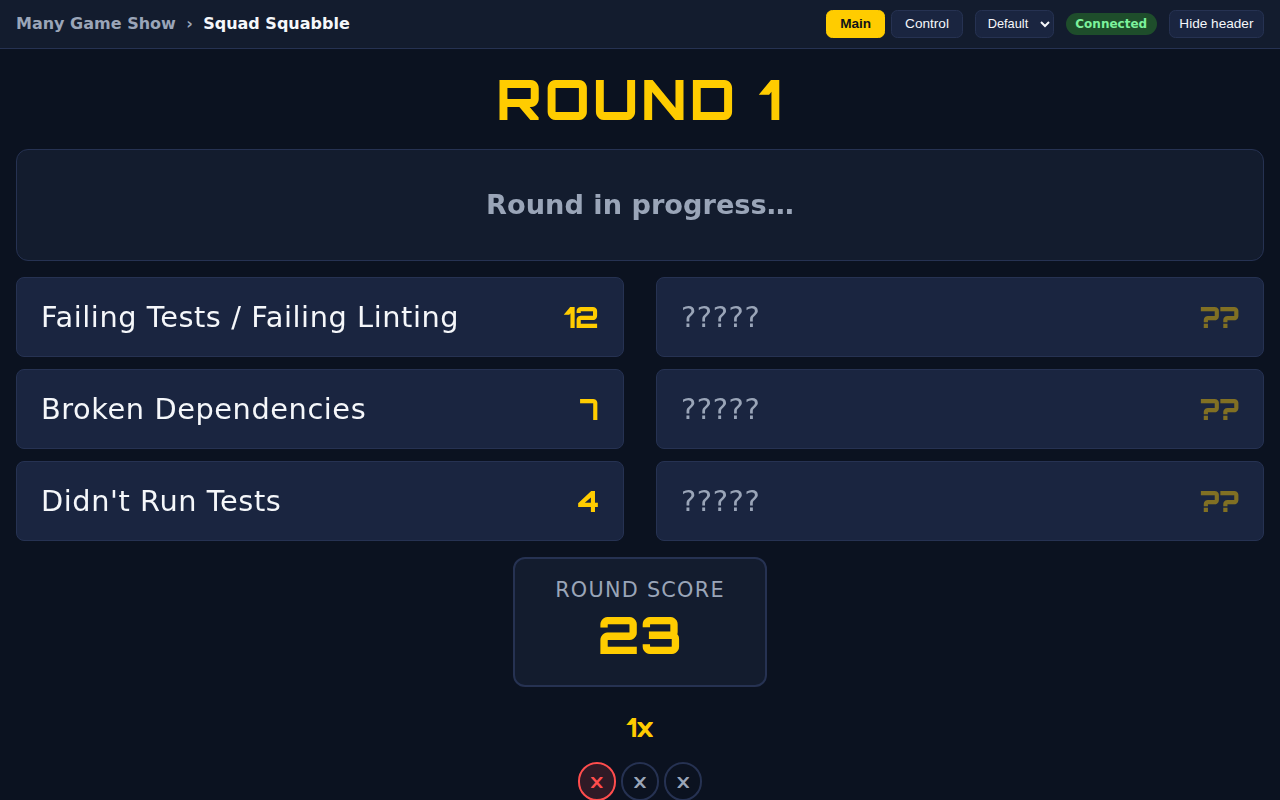
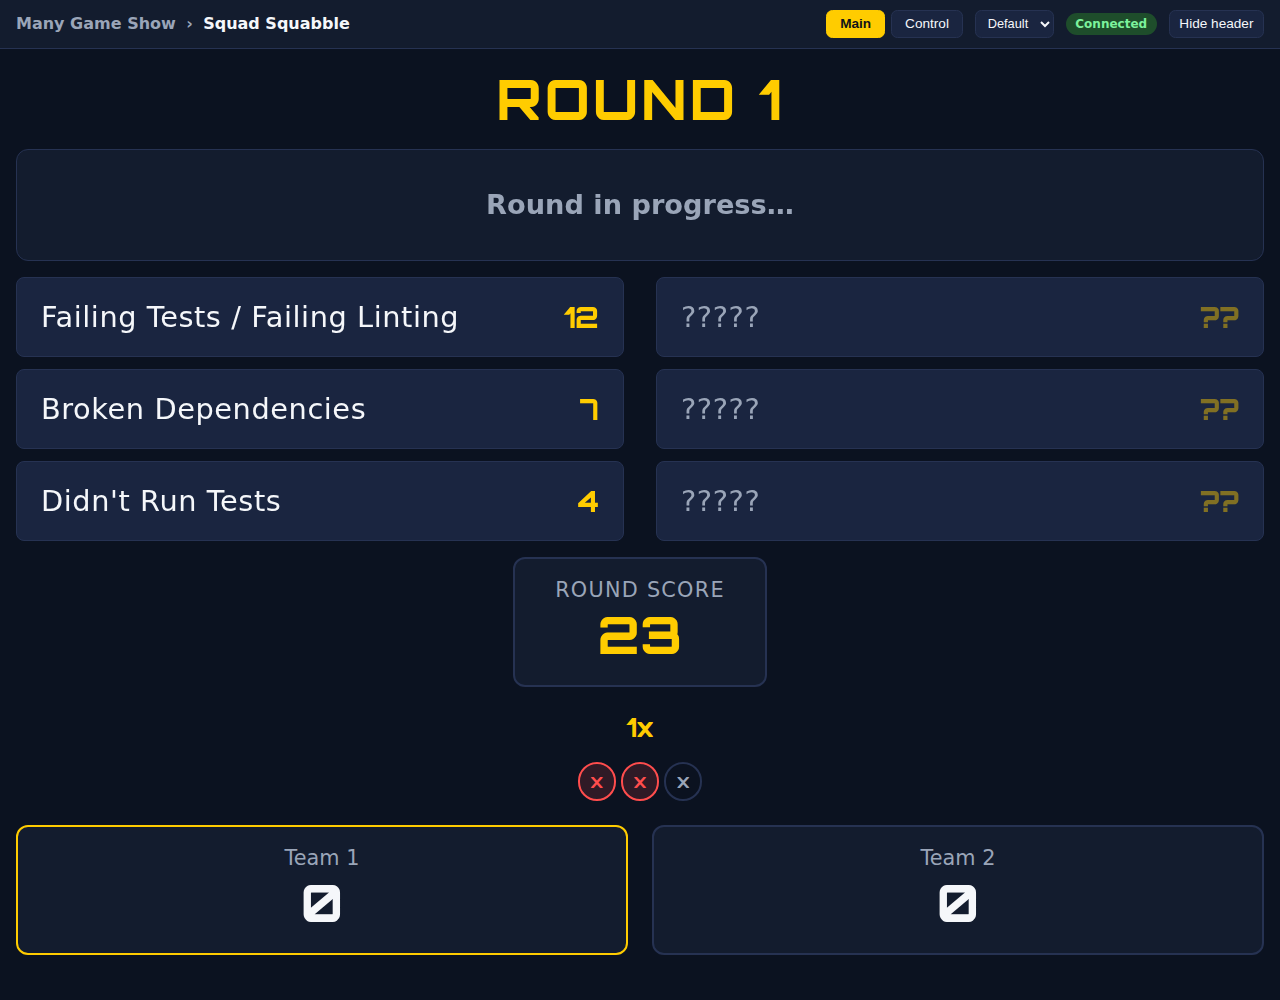
docs: add content-authoring guide, fix README screenshots
ADDING_CONTENT.md walks through writing questions, boards and clue banks
for all four games: file shapes, what each field means, authoring tips,
and a check command per game (all run against the samples). The README
links it.

Screenshots: Squad Squabble now shows two strikes (taller viewport so
the team cards fit), and Speed Points is captured after all five
answers have been revealed and the countdown has expired. Also fixes
leftover "Stake Stacker"/"context clue" wording in a loader comment and
test comments.

This work was substantially AI-generated with human review and
direction throughout.

Vibe-Coder: Vibe-Coder 1.z3r0 <243014891+vibecoder-1z3r0@users.noreply.github.com>

diff --git a/scripts/screenshots.py b/scripts/screenshots.py
@@ -74,33 +74,25 @@ def setup_squad_squabble() -> str:
     for i in (0, 1, 2):
         patch("squad-squabble", gid, "reveal", {"answer_index": i})
     patch("squad-squabble", gid, "strike")
+    patch("squad-squabble", gid, "strike")
     return gid
 
 
 def setup_speed_points() -> str:
+    """Player 1 has answered all five questions and the host has revealed
+    every answer on Main; points (the second reveal beat) are still hidden."""
     gid = create("speed-points")
     patch(
         "speed-points",
         gid,
         "start-round",
-        {"player": "player1", "duration_seconds": 90},
+        {"player": "player1", "duration_seconds": 1},
     )
-    answers = ["LGTM", "Blocked on review", "A rubber duck", "Prod is on fire"]
+    answers = ["Nit:", "Blocked on review", "Rubber duck", "Friday", "Write tests"]
     for i, text in enumerate(answers):
         patch("speed-points", gid, "answer", {"question_index": i, "text": text})
         patch("speed-points", gid, "answer-lock", {"question_index": i, "locked": True})
-        # The last answer stays points-hidden, to show the two reveal beats.
-        if i < len(answers) - 1:
-            points = 36 - 9 * i
-            patch(
-                "speed-points", gid, "points", {"question_index": i, "points": points}
-            )
-            patch(
-                "speed-points",
-                gid,
-                "points-lock",
-                {"question_index": i, "locked": True},
-            )
+    time.sleep(1.5)  # let the 1s countdown expire: the round is over
     return gid
 
 
@@ -180,6 +172,12 @@ def main() -> None:
                 print("Writing screenshots to", OUT)
                 for game, setup in setups.items():
                     ids[game] = setup()
+                    # Squad Squabble's Main is tall enough to push the
+                    # strikes below an 800px fold.
+                    height = 1000 if game == "squad-squabble" else VIEWPORT["height"]
+                    page.set_viewport_size(
+                        {"width": VIEWPORT["width"], "height": height}
+                    )
                     shot(page, f"{game}-main", f"/{game}.html?id={ids[game]}&view=main")
                     shot(
                         page,

diff --git a/tests/test_api/test_overdrive.py b/tests/test_api/test_overdrive.py
@@ -107,7 +107,7 @@ def test_control_sees_full_answer_key_always(client: TestClient) -> None:
     clue = body["categories"][0]["clues"][0]
     assert clue["text"] is not None
     assert clue["answer"] is not None
-    # The known context clue on the classic round1 bank.
+    # The known Crit Boost clue on the classic round1 bank.
     crit_boost = body["categories"][0]["clues"][4]
     assert crit_boost["is_crit_boost"] is True
 
@@ -174,14 +174,14 @@ def test_reveal_clue_shows_text_to_everyone(client: TestClient) -> None:
 
 def test_reveal_requires_wager_for_crit_boost(client: TestClient) -> None:
     game_id = _create_game(client)
-    _select_clue(client, game_id, 0, 4)  # the context clue
+    _select_clue(client, game_id, 0, 4)  # the Crit Boost clue
     resp = client.patch(f"/api/overdrive/games/{game_id}/reveal-clue")
     assert resp.status_code == 400
 
 
 def test_reveal_requires_board_control_for_crit_boost(client: TestClient) -> None:
     game_id = _create_game(client)
-    _select_clue(client, game_id, 0, 4)  # the context clue
+    _select_clue(client, game_id, 0, 4)  # the Crit Boost clue
     client.patch(
         f"/api/overdrive/games/{game_id}/crit-boost-wager", json={"wager": 500}
     )

diff --git a/tests/test_models/test_overdrive.py b/tests/test_models/test_overdrive.py
@@ -217,7 +217,7 @@ def test_can_ring_in_false_for_crit_boost() -> None:
     game = OverdriveGame(ring_in_start_delay_ms=300, ring_in_window_ms=5000)
     reset_board_for_round(game, RoundName.ROUND1)
     game.selected_category_index = 0
-    game.selected_clue_index = 4  # the context clue
+    game.selected_clue_index = 4  # the Crit Boost clue
     now = datetime.now(UTC).replace(tzinfo=None)
     game.clue_revealed_at = now - timedelta(milliseconds=1000)
     assert can_ring_in(game, Player.PLAYER1, now=now) is False

diff --git a/ADDING_CONTENT.md b/ADDING_CONTENT.md
@@ -1,0 +1,276 @@
+# Adding Your Own Game Content
+
+Every game's questions, boards and clues are **data, not code**: plain JSON
+files you can write without touching any Python. This guide walks through
+each game. (For adding a whole new *game*, see
+[ADDING_A_GAME.md](./ADDING_A_GAME.md).)
+
+## The workflow, for any game
+
+1. **Copy the sample file** from
+   [`src/manygameshow/data/`](./src/manygameshow/data/) to somewhere outside
+   the repo (e.g. `~/my-content/questions.json`) and edit the copy. The
+   bundled `*.sample.json` files are test/demo data — leave them alone.
+2. **Point the game at your file** with its environment variable (table
+   below) when you start the server:
+   ```bash
+   SQUAD_SQUABBLE_QUESTIONS_PATH=~/my-content/questions.json make run
+   ```
+3. **Restart the server after every edit.** Files are read once and cached,
+   so a running server won't see changes (even with `--reload`, which only
+   watches the Python source).
+4. **Check the file loads** before the show. The loaders validate the shape
+   with pydantic, so a typo gives a clear error naming the bad field. The
+   one-liner for each game is in its section below.
+5. **Create a fresh game after changing content.** Games remember which
+   banks and questions they were created with (by `id`), so a game started
+   before your edit may not reflect it. Don't rename or remove an `id`
+   that a live game is using.
+
+| Game | Environment variable | Sample file |
+|---|---|---|
+| Squad Squabble | `SQUAD_SQUABBLE_QUESTIONS_PATH` | `squad_squabble_questions.sample.json` |
+| Speed Points | `SPEED_POINTS_QUESTIONS_PATH` | `speed_points_questions.sample.json` |
+| Big Tokens | `BIG_TOKENS_BOARDS_PATH` | `big_tokens_boards.sample.json` |
+| Overdrive | `OVERDRIVE_ROUND1_BANKS_PATH`<br>`OVERDRIVE_ROUND2_BANKS_PATH`<br>`OVERDRIVE_FINAL_BANKS_PATH` | `overdrive_round1.sample.json`<br>`overdrive_round2.sample.json`<br>`overdrive_final.sample.json` |
+
+Extra keys such as a top-level `"_comment"` are ignored, so feel free to
+leave notes in your file.
+
+---
+
+## Squad Squabble — survey questions
+
+A bank of survey questions; the host loads one at a time from Control and
+the whole bank is always available.
+
+```json
+{
+  "questions": [
+    {
+      "id": "build-failed",
+      "prompt": "We asked 100 developers: name a reason the build failed",
+      "answers": [
+        { "text": "Failing tests", "points": 38 },
+        { "text": "Broken dependencies", "points": 27 },
+        { "text": "Config issue", "points": 14 }
+      ]
+    }
+  ]
+}
+```
+
+- **`id`** — unique, short, no spaces. It's what a game stores, so don't
+  rename an id mid-event.
+- **`prompt`** — shown to the host (and on Main when the host shows it).
+- **`answers`** — listed **best-first**: the order you write them is the
+  order they appear on the board, and the top answer is conventionally the
+  biggest. Six to eight is typical; the board lays out in two columns.
+- **`points`** — the survey count for that answer (how many of your 100
+  people said it). Revealed answers add to the round pot, which is
+  multiplied by the round's 1x/2x/3x setting (chosen when the host loads
+  the question) and awarded to a team.
+
+Check it loads:
+
+```bash
+SQUAD_SQUABBLE_QUESTIONS_PATH=~/my-content/questions.json \
+  uv run python -c "from manygameshow.questions import list_questions as q; print(len(q()), 'questions OK')"
+```
+
+**Tip:** to collect real answers, survey people, group duplicates
+("tests failing" / "failing tests"), and use the group's head-count as
+`points`. Trim the long tail to the top handful.
+
+---
+
+## Speed Points — the five-question relay
+
+Exactly the same file shape as Squad Squabble, but a **separate file**
+with its own variable, because Speed Points draws from its own bank.
+
+- **Only the first five questions are used**, in file order, and both
+  players face the same five. Extra questions are ignored (handy as spares
+  — just reorder the file to swap them in).
+- Each question's `answers` are the **survey answers the judge scores
+  against**: the Judge view shows them as one-tap buttons ("answer
+  (points)") plus "No match (0)", so a contestant's answer is scored by
+  tapping the closest survey answer. List them best-first.
+- A game takes its five questions **when it is created**, so changing the
+  file means creating a new game.
+- Think "Fast Money": the best answer is worth a lot (30–40), and the
+  fifth is worth very little. Aim for the five best answers to total
+  roughly 100, so two players can plausibly reach the win threshold of 200
+  together.
+
+Check it loads:
+
+```bash
+SPEED_POINTS_QUESTIONS_PATH=~/my-content/fast.json \
+  uv run python -c "from manygameshow.speed_points_questions import list_questions as q; print(len(q()), 'questions OK (first 5 are used)')"
+```
+
+---
+
+## Big Tokens — boards
+
+A "board" is a complete layout of the 18 squares plus the rules for
+hallucinations. The lobby lists every board in your file in a dropdown.
+
+```json
+{
+  "boards": [
+    {
+      "id": "classic",
+      "name": "Classic Board",
+      "max_hallucinations": 3,
+      "wipe_on_every_hallucination": true,
+      "elimination_scope": "game",
+      "squares": [
+        { "items": [{ "type": "tokens", "amount": 300, "label": "+300 Tokens" }] },
+        { "items": [{ "type": "hallucination", "label": "HALLUCINATION!" }] }
+      ]
+    }
+  ]
+}
+```
+
+(`squares` is truncated here — a real board needs all **18**.)
+
+**Board settings**
+
+| Field | Meaning |
+|---|---|
+| `id`, `name` | Unique id, and the name shown in the lobby. |
+| `max_hallucinations` | How many hallucinations knock a player out. |
+| `wipe_on_every_hallucination` | `true`: every hallucination zeroes the player's tokens. `false`: tokens are only zeroed by the hit that eliminates them. |
+| `elimination_scope` | `"game"`: out for the rest of the game. `"round"`: hallucination counts and eliminations reset when the next round starts. |
+| `squares` | Exactly **18** entries — the ring, clockwise from the top-left corner. Fewer or more will break the board. |
+
+**Squares and cascading faces.** Each square has a list of `items`. Landing
+on a square resolves its *current* item and then advances that square to
+the next item in its list (staying on the last one). So `[+500, +750]`
+means the first player to land there gets 500 and every later landing gets
+750 — a way to make squares heat up over a game. A one-item list never
+changes.
+
+**Item types** (`label` is always required and is the text on the board):
+
+| `type` | Effect | Needs `amount`? |
+|---|---|---|
+| `tokens` | Gain `amount` tokens. | yes |
+| `double` | Double your tokens. | no |
+| `free_spin` | Gain a spin. | no |
+| `steal` | Steal `amount` tokens from a player you choose. | yes |
+| `swap_scores` | Swap token totals with a player you choose. | no |
+| `hallucination` | Take a hallucination (see board settings). | no |
+| `choice_swap_or_free_spin` | Player chooses: swap scores, or a free spin. | no |
+| `choice_tokens_or_cure` | Player chooses: take `amount` tokens, or remove a hallucination. | yes |
+
+Check it loads (and has 18 squares):
+
+```bash
+BIG_TOKENS_BOARDS_PATH=~/my-content/boards.json uv run python -c "
+from manygameshow.big_tokens_boards import list_boards
+for b in list_boards():
+    assert len(b.squares) == 18, f'{b.id}: {len(b.squares)} squares, need 18'
+    print(b.id, 'OK')"
+```
+
+**Tip:** start from the sample board and change a few squares rather than
+building all 18 from scratch. A board with too many generous squares ends
+quickly; the hallucination squares (and how many of them) are your main
+difficulty knob.
+
+---
+
+## Overdrive — round banks and the Final Exam
+
+Overdrive has **three files**, one per kind of round. Each file holds
+several selectable "banks" (a bank is one complete round of content), and
+the lobby has a dropdown for each, so a host picks a bank for round 1, one
+for round 2 and one for the final.
+
+### Round 1 and Round 2
+
+Both files use the same shape:
+
+```json
+{
+  "banks": [
+    {
+      "id": "classic",
+      "name": "Classic Dev Trivia",
+      "categories": [
+        {
+          "name": "Git Happens",
+          "clues": [
+            { "text": "This command stages every change in the directory.",
+              "answer": "What is git add .", "value": 200 },
+            { "text": "...", "answer": "...", "value": 400 },
+            { "text": "...", "answer": "...", "value": 600 },
+            { "text": "...", "answer": "...", "value": 800 },
+            { "text": "...", "answer": "...", "value": 1000, "crit_boost": 1 }
+          ]
+        }
+      ]
+    }
+  ]
+}
+```
+
+- **Shape:** the board is a grid of **6 categories × 5 clues**. Keep to
+  that; the Main and Control layouts are built for it.
+- **`text`** is what's read aloud and shown on Main. **`answer`** is the
+  host's answer key: Control always shows it, but Main and the players only
+  see it once the clue has been played. Jeopardy convention is to phrase
+  `answer` as a question ("What is…").
+- **`value`** — the points for the clue, and the position on the board.
+  Convention is 200–1000 in round 1 and double that (400–2000) in round 2.
+  Within a category list clues from lowest to highest value.
+- **`crit_boost`** (optional, defaults to `0`) — marks the clue as a Crit
+  Boost, the Daily-Double-style clue: when picked, the player wagers before
+  seeing it, and the countdown is host-started. Any non-zero value counts.
+  By convention use **one** Crit Boost per round-1 bank and **two** per
+  round-2 bank. The numbers `1` and `2` exist only so you can tell which
+  clues you set aside for each round when sharing a clue pool across banks;
+  the game treats any non-zero value the same.
+- Put Crit Boosts on the harder, higher-value clues, and spread them across
+  different categories.
+
+### Final Exam
+
+One question per bank, no board:
+
+```json
+{
+  "banks": [
+    {
+      "id": "ada",
+      "name": "Famous Firsts",
+      "category": "Famous Firsts in Computing",
+      "text": "This programmer worked on Babbage's Analytical Engine in the 1840s.",
+      "answer": "Who is Ada Lovelace"
+    }
+  ]
+}
+```
+
+`category` is shown as the Final Exam's topic; `text` is the clue and
+`answer` is the host's key for judging.
+
+Check all three load:
+
+```bash
+OVERDRIVE_ROUND1_BANKS_PATH=~/my-content/r1.json \
+OVERDRIVE_ROUND2_BANKS_PATH=~/my-content/r2.json \
+OVERDRIVE_FINAL_BANKS_PATH=~/my-content/final.json \
+uv run python -c "
+from manygameshow.overdrive_banks import list_round1_banks, list_round2_banks, list_final_banks
+for b in list_round1_banks() + list_round2_banks():
+    print(b.id, [len(c.clues) for c in b.categories], 'clues per category')
+print(len(list_final_banks()), 'final banks OK')"
+```
+
+Every number in the first line should be `5`, and there should be six of
+them.

diff --git a/README.md b/README.md
@@ -78,7 +78,9 @@ before restarting** — there are no migrations (see
 Questions, boards and clue banks are data, not code, so you can swap in
 your own without touching any source: point the matching environment
 variable at a JSON file with the same shape as the bundled sample in
-[`src/manygameshow/data/`](./src/manygameshow/data/).
+[`src/manygameshow/data/`](./src/manygameshow/data/). The full
+walkthrough — file shapes, authoring tips and a check command per game —
+is in [ADDING_CONTENT.md](./ADDING_CONTENT.md).
 
 | Game | Environment variable(s) | Sample file(s) |
 |---|---|---|
@@ -132,6 +134,7 @@ Tokens chase light are live, so those shots differ slightly each run.
 ## Project docs
 
 - [ARCHITECTURE.md](./ARCHITECTURE.md) — stack, conventions, extension pattern
+- [ADDING_CONTENT.md](./ADDING_CONTENT.md) — writing your own questions, boards and clue banks
 - [ADDING_A_GAME.md](./ADDING_A_GAME.md) — step-by-step recipe for a new game
 - [UI_LOOK_AND_FEEL.md](./UI_LOOK_AND_FEEL.md) — theming, typography, view conventions
 - [CLAUDE.md](./CLAUDE.md) — working conventions for the AI assistant (also useful for contributors)
